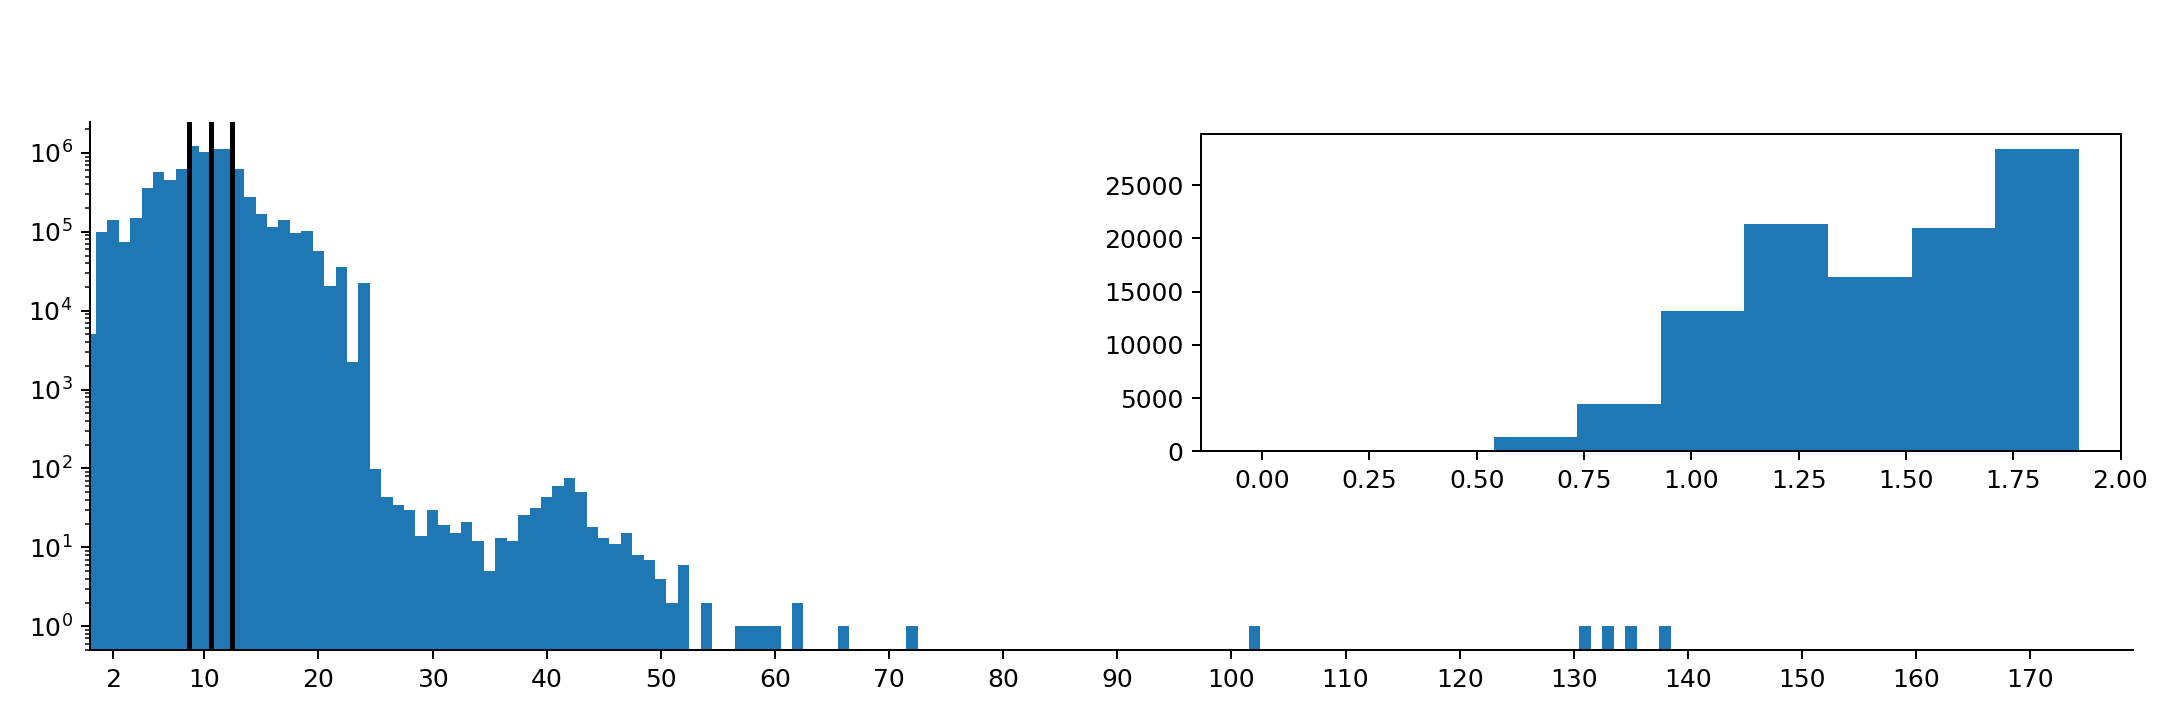
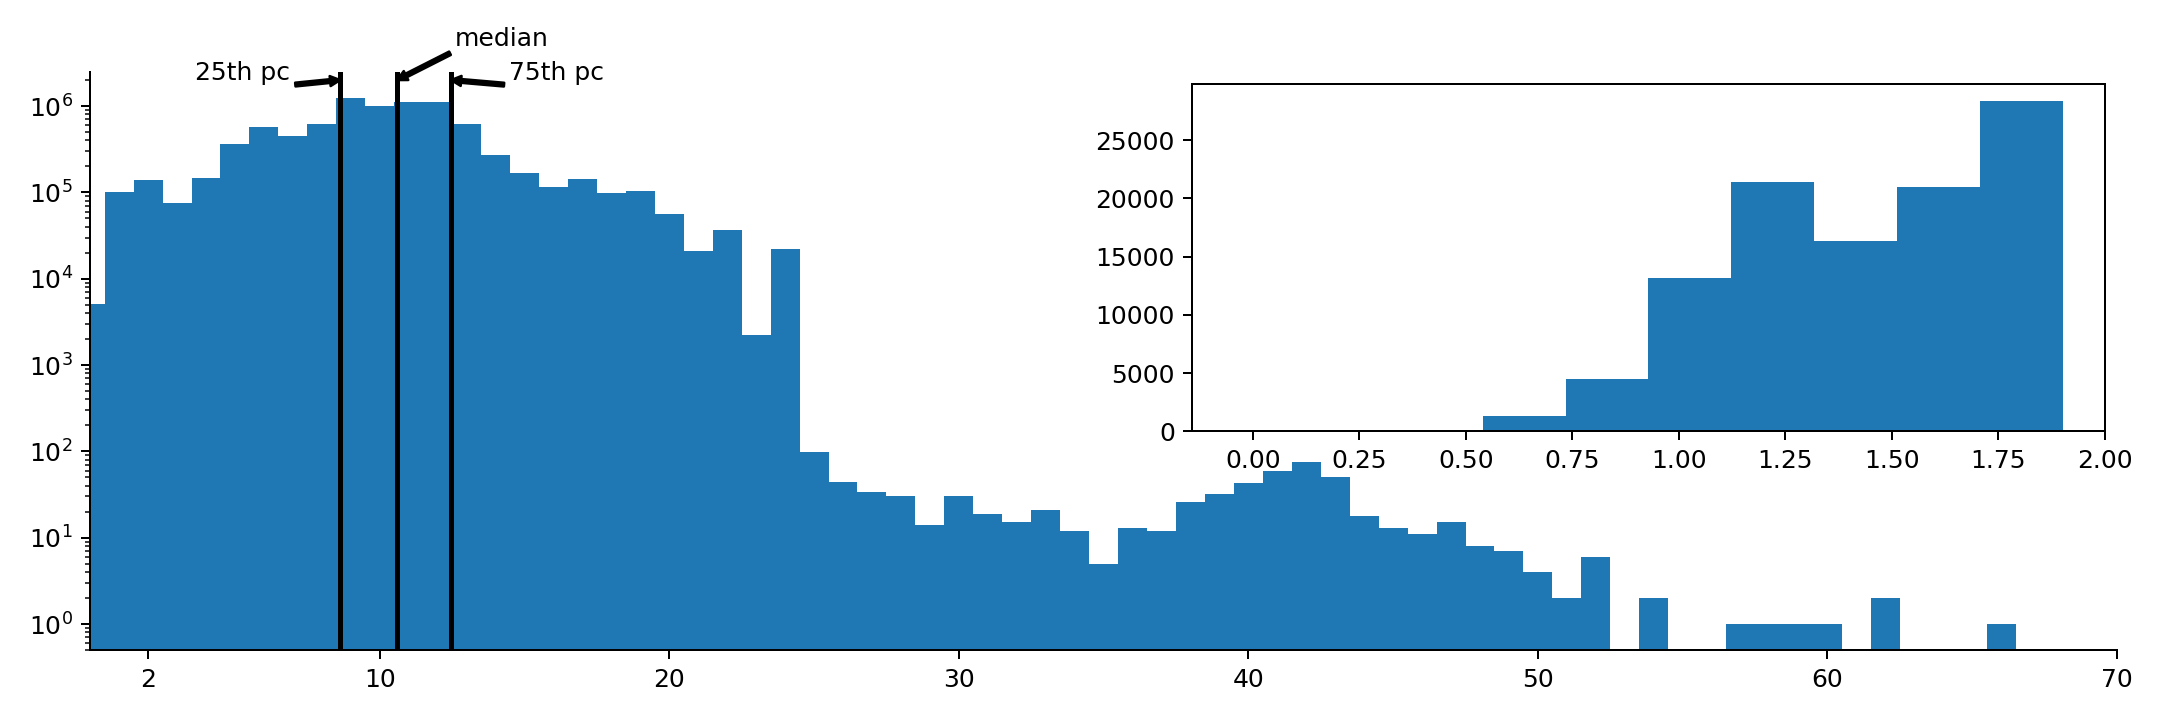
Update gcd speedup plot

diff --git a/bin/plot_gcd_speedup_histogram.py b/bin/plot_gcd_speedup_histogram.py
@@ -54,7 +54,7 @@ ax.spines['right'].set_visible(False)
 med = np.median(data)
 print(med)
 ax.axvline(med, linewidth=2, color='black')
-plt.annotate('median', (med, 10**6 * 5), (med + 3, 10**7 * 2),
+plt.annotate('median', (med, 10**6 * 2), (med + 2, 10**6 * 5),
              arrowprops={
                  'width': 1.5,
                  'headwidth': 4,
@@ -63,7 +63,7 @@ plt.annotate('median', (med, 10**6 * 5), (med + 3, 10**7 * 2),
              })
 pc75= np.percentile(data, 75)
 ax.axvline(pc75, linewidth=2, color='black')
-plt.annotate('75th pc', (pc75, 10**6 * 5), (pc75 + 4, 10**6 * 5),
+plt.annotate('75th pc', (pc75, 10**6 * 2), (pc75 + 2, 10**6 * 2),
              arrowprops={
                  'width': 1.5,
                  'headwidth': 4,
@@ -73,7 +73,7 @@ plt.annotate('75th pc', (pc75, 10**6 * 5), (pc75 + 4, 10**6 * 5),
 
 pc25= np.percentile(data, 25)
 ax.axvline(pc25, linewidth=2, color='black')
-plt.annotate('25th pc', (pc25, 10**6 * 5), (pc25 - 10, 10**6 * 5),
+plt.annotate('25th pc', (pc25, 10**6 * 2), (pc25 - 5, 10**6 * 2),
              arrowprops={
                  'width': 1.5,
                  'headwidth': 4,
@@ -83,7 +83,7 @@ plt.annotate('25th pc', (pc25, 10**6 * 5), (pc25 - 10, 10**6 * 5),
 
 
 
-plt.xlim(int(min(data)), int(max(data)))
+plt.xlim(int(min(data)), 70)
 
 axins = inset_axes(ax, width='45%', height='60%')
 lodata = data[data <= 2]
